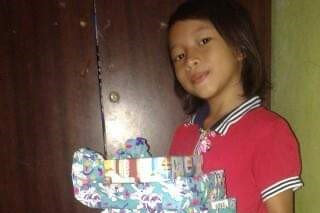
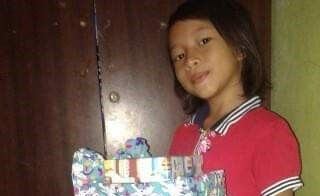
commit

Changed region(s): [[0.2188, 0.0918, 0.9688, 1.0], [0.25, 0.0918, 0.2812, 0.1531], [0.8438, 0.4286, 0.875, 0.4592]]

diff --git a/profile.html b/profile.html
@@ -26,6 +26,7 @@
     /* Netflix Logo without circle */
     header .logo {
       height: 30px;
+      cursor: pointer;
     }
 
     /* Profile Image in the Header */
@@ -216,7 +217,9 @@
 
   <!-- Header with Netflix Logo on the Left and Profile Picture on the Right -->
   <header>
-    <img class="logo" src="https://upload.wikimedia.org/wikipedia/commons/0/08/Netflix_2015_logo.svg" alt="Netflix Logo">
+    <a href="javascript:history.back()">
+      <img class="logo" src="https://upload.wikimedia.org/wikipedia/commons/0/08/Netflix_2015_logo.svg" alt="Netflix Logo">
+  </a>
     <img class="profile-pic" src="assets/wawa.jpg" alt="Profile Picture">
   </header>
 
@@ -259,6 +262,11 @@
       </div>
 
       <div class="profile-section">
+        <span>Time Until Next Birthday</span>
+        <p id="next-birthday"></p> <!-- Time until next birthday will be displayed here -->
+      </div>
+
+      <div class="profile-section">
         <p><a href="#" id="logout-btn">Log Out</a></p>
       </div>
     </div>
@@ -278,22 +286,40 @@
 
 <script>
     function calculateAge() {
-      const birthDate = new Date('2008-03-31T00:00:00'); // Date of birth: 31 March 2008
-      const now = new Date(); // Current date and time
-      const diff = now - birthDate; // Difference in milliseconds
+    const birthDate = new Date('2008-03-31T00:00:00'); // Date of birth: 31 March 2008
+    const now = new Date(); // Current date and time
+    const diff = now - birthDate; // Difference in milliseconds
 
-      // Calculate the years, months, days, hours, minutes, and seconds
-      const years = Math.floor(diff / (1000 * 60 * 60 * 24 * 365.25));
-      const months = Math.floor((diff % (1000 * 60 * 60 * 24 * 365.25)) / (1000 * 60 * 60 * 24 * 30.44));
-      const days = Math.floor((diff % (1000 * 60 * 60 * 24 * 30.44)) / (1000 * 60 * 60 * 24));
-      const hours = Math.floor((diff % (1000 * 60 * 60 * 24)) / (1000 * 60 * 60));
-      const minutes = Math.floor((diff % (1000 * 60 * 60)) / (1000 * 60));
-      const seconds = Math.floor((diff % (1000 * 60)) / 1000);
+    // Calculate the years, months, days, hours, minutes, and seconds
+    const years = Math.floor(diff / (1000 * 60 * 60 * 24 * 365.25));
+    const months = Math.floor((diff % (1000 * 60 * 60 * 24 * 365.25)) / (1000 * 60 * 60 * 24 * 30.44));
+    const days = Math.floor((diff % (1000 * 60 * 60 * 24 * 30.44)) / (1000 * 60 * 60 * 24));
+    const hours = Math.floor((diff % (1000 * 60 * 60 * 24)) / (1000 * 60 * 60));
+    const minutes = Math.floor((diff % (1000 * 60 * 60)) / (1000 * 60));
+    const seconds = Math.floor((diff % (1000 * 60)) / 1000);
 
-      // Display the result
-      const ageDisplay = `${years} y, ${months} m, ${days} d, ${hours} h, ${minutes} min, ${seconds} sec`;
-      document.getElementById('age').innerText = ageDisplay;
+    // Display the age result
+    const ageDisplay = `${years} y, ${months} m, ${days} d, ${hours} h, ${minutes} min, ${seconds} sec`;
+    document.getElementById('age').innerText = ageDisplay;
+
+    // Calculate the time until the next birthday
+    let nextBirthday = new Date(birthDate);
+    nextBirthday.setFullYear(now.getFullYear());
+    if (now > nextBirthday) {
+        nextBirthday.setFullYear(now.getFullYear() + 1); // If this year's birthday has passed
     }
+
+    const timeUntilNextBirthday = nextBirthday - now;
+    const daysUntilNext = Math.floor(timeUntilNextBirthday / (1000 * 60 * 60 * 24));
+    const hoursUntilNext = Math.floor((timeUntilNextBirthday % (1000 * 60 * 60 * 24)) / (1000 * 60 * 60));
+    const minutesUntilNext = Math.floor((timeUntilNextBirthday % (1000 * 60 * 60)) / (1000 * 60));
+    const secondsUntilNext = Math.floor((timeUntilNextBirthday % (1000 * 60)) / 1000);
+
+    // Display the time until the next birthday
+    const nextBirthdayDisplay = `${daysUntilNext} d, ${hoursUntilNext} h, ${minutesUntilNext} min, ${secondsUntilNext} sec`;
+    document.getElementById('next-birthday').innerText = nextBirthdayDisplay;
+}
+
 
     // Call calculateAge function every second to update the age in real-time
     setInterval(calculateAge, 1000);

diff --git a/homepage.html b/homepage.html
@@ -1202,7 +1202,7 @@
                             <span class="more-text"> this gift is more than just an item, it's a reflection of the care and dedication i put into celebrating ur special day. i hope this reminder brings a smile to ur face and adds a touch of joy to ur day.</span>
                             <a href="#" class="read-more" onclick="toggleText('episode2')">Read more</a>
                         </p>
-                        <a href="https://eangg1.github.io/kue/" class="button" target="_blank">Explore Episode 2</a>
+                        <a href="https://eangg1.github.io/kado/" class="button" target="_blank">Explore Episode 2</a>
                     </div>
                 </div>
                 
@@ -1226,13 +1226,13 @@
         <div class="modal-content">
             <span class="close">&times;</span>
             <h2>Season 2: celebrate ur 17th!</h2>
-            <img src="https://via.placeholder.com/600x400" alt="Movie Image">
+            <img src="assets/S2.jpeg" alt="Movie Image">
             <p class="genre">Genre: Documentary, Personal, Celebration, Drama, Comedy</p> <!-- New Genre Section -->
             <p>Welcome to a special episode dedicated entirely to you, Marva! Today, we gather heartfelt messages and warm wishes from your parents and closest friends to make your 17th birthday unforgettable. From touching words of love to joyful expressions of celebration, this episode is all about honoring the wonderful person you are and the incredible journey you’ve had so far. Sit back, relax, and enjoy the heartfelt tributes as we celebrate YOU on this special day!</p>
             <div class="start-episode">
                 <h2>Start Watching</h2>
                 <div class="episode-thumbnail" id="episode4" data-video-src="https://www.w3schools.com/html/mov_bbb.mp4">
-                    <img src="https://via.placeholder.com/150x100" alt="Episode 3 Thumbnail">
+                    <img src="assets/S2E1.jpeg"Episode 3 Thumbnail">
                     <div class="episode-info">
                         <p class="episode-title">S2 E1: Special Greetings and Well-Wishes from Marva's Loved Ones</p>
                         <p class="episode-description">
@@ -1427,7 +1427,7 @@
     });
 
     function slidePage(direction) {
-        isTransitioning = true; // Menghindari pemicu berulang selama animasi
+        isTransitioning = true; 
 
     const current = pages[currentPage];
     const currentIndicator = indicators[currentPage];
@@ -1461,7 +1461,6 @@
             dropdown.classList.toggle('show');
     }
 
-    // Close the dropdown if the user clicks outside of it
     window.onclick = function(event) {
         if (!event.target.matches('.profile-pic')) {
             const dropdown = document.getElementById('dropdown-menu');
